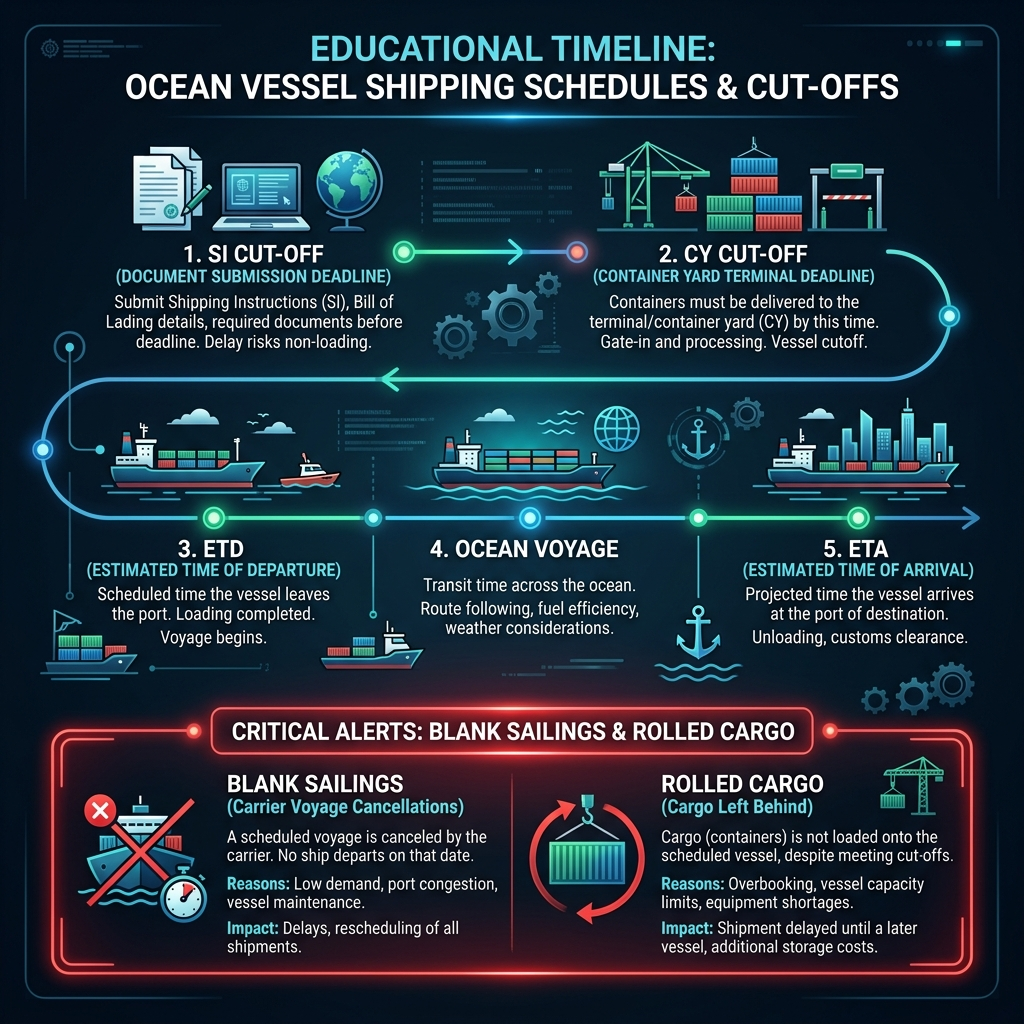
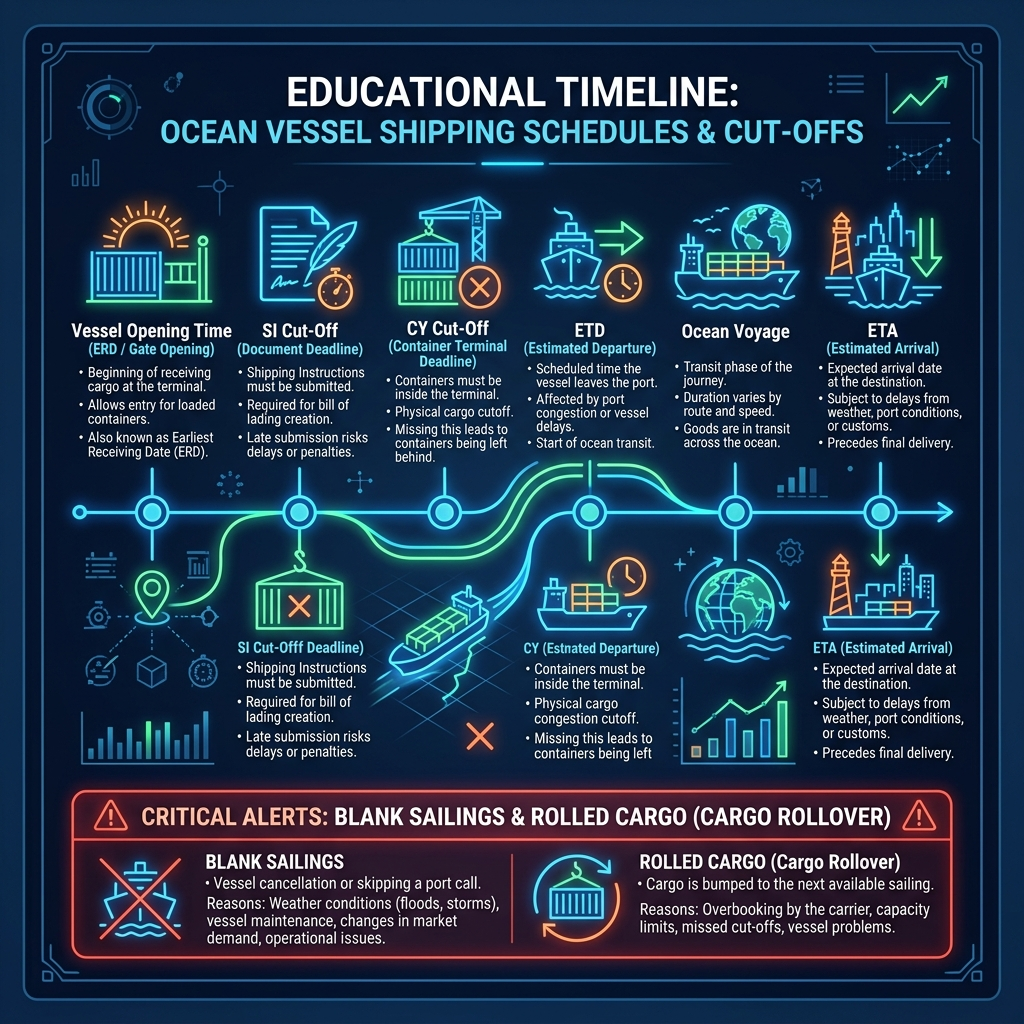
8 11 3

diff --git a/knowledge_base.js b/knowledge_base.js
@@ -184,23 +184,44 @@ var NEXUS_KNOWLEDGE_BASE = window.NEXUS_KNOWLEDGE_BASE = {
         {
           id: "types-of-shipping-containers",
           title: "Types of Shipping Containers",
-          summary: "An overview of container equipment types used in sea shipping.",
+          summary: "Detailed ISO container equipment types, dimensions, and cargo applications.",
           image: "images/types_of_shipping_containers_infographic.png",
           content: `
-            <p>Choosing the correct shipping container is vital to protect cargo integrity and minimize deadweight transport costs. Standard container designs are classified under international ISO standards:</p>
+            <p>Choosing the correct shipping container is vital to protect cargo integrity, ensure physical safety at sea, and minimize deadweight transport costs. Standard container designs are classified under international ISO 6346 standards:</p>
 
             <img src="images/types_of_shipping_containers_infographic.png" alt="Types of Shipping Containers Infographic" style="width:100%; max-width:850px; border-radius:12px; margin:25px auto; display:block; box-shadow:0 10px 25px rgba(0,0,0,0.15);">
 
-            <h3>1. Dry Van / General Purpose (DV/GP)</h3>
-            <p>Standard fully enclosed containers with rigid walls, roof, and end doors. Used for dry general cargo like textiles, packaged consumer products, paper, and dry bulk items.</p>
-            <h3>2. Reefer Container (RF)</h3>
-            <p>Thermally insulated containers equipped with an integrated refrigeration compressor unit powered by the vessel's electrical grid. Designed to transport perishables, food items, chemicals, and pharmaceutical drugs at temperature ranges from -30°C to +30°C.</p>
-            <h3>3. Open Top Container (OT)</h3>
-            <p>Features a removable tarpaulin roof rather than a solid metal ceiling. Ideal for loading oversized cargo (like heavy steel beams, machinery, logs) from above using overhead cranes.</p>
-            <h3>4. Flat Rack Container (FR)</h3>
-            <p>Features collapsible flat bulkheads at both ends and lacks side walls. Designed to transport Out-of-Gauge (OOG) machinery, yachts, boilers, and heavy vehicles that exceed standard container width and height limits.</p>
-            <h3>5. ISO Tank Container</h3>
-            <p>A cylindrical steel tank mounted within a standard 20ft container frame. Designed for bulk transport of food-grade liquids, spirits, gases, and dangerous chemicals.</p>
+            <div style="margin:30px 0; display:grid; grid-template-columns: repeat(auto-fit, minmax(240px, 1fr)); gap:20px; font-family:'Outfit', sans-serif;">
+              <div style="background:#FFF; border:2px solid #E2E8F0; padding:20px; border-radius:12px; border-top:4px solid #1D4ED8; box-shadow: 0 4px 6px rgba(0,0,0,0.05);">
+                <strong style="color:#1D4ED8; font-size:1.15rem; display:block; margin-bottom:8px;">1. Dry Van / General Purpose (DV/GP)</strong>
+                <p style="font-size:0.9rem; color:#475569; line-height:1.6; margin:0;">Standard fully enclosed rigid steel containers (20ft & 40ft). Designed for general dry cargo like garments, electronics, packaged goods, and dry bulk boxes.</p>
+              </div>
+
+              <div style="background:#FFF; border:2px solid #E2E8F0; padding:20px; border-radius:12px; border-top:4px solid #059669; box-shadow: 0 4px 6px rgba(0,0,0,0.05);">
+                <strong style="color:#059669; font-size:1.15rem; display:block; margin-bottom:8px;">2. Reefer Container (RF)</strong>
+                <p style="font-size:0.9rem; color:#475569; line-height:1.6; margin:0;">Insulated units equipped with a refrigeration compressor powered by the vessel grid. Maintains precise temperatures (-30°C to +30°C) for fruits, meats, seafood, and pharmaceuticals.</p>
+              </div>
+
+              <div style="background:#FFF; border:2px solid #E2E8F0; padding:20px; border-radius:12px; border-top:4px solid #EA580C; box-shadow: 0 4px 6px rgba(0,0,0,0.05);">
+                <strong style="color:#EA580C; font-size:1.15rem; display:block; margin-bottom:8px;">3. Open Top Container (OT)</strong>
+                <p style="font-size:0.9rem; color:#475569; line-height:1.6; margin:0;">Equipped with a heavy-duty removable tarpaulin roof instead of a solid steel ceiling. Used for loading tall or heavy machinery, timber, and steel coils from above via overhead cranes.</p>
+              </div>
+
+              <div style="background:#FFF; border:2px solid #E2E8F0; padding:20px; border-radius:12px; border-top:4px solid #DC2626; box-shadow: 0 4px 6px rgba(0,0,0,0.05);">
+                <strong style="color:#DC2626; font-size:1.15rem; display:block; margin-bottom:8px;">4. Flat Rack Container (FR)</strong>
+                <p style="font-size:0.9rem; color:#475569; line-height:1.6; margin:0;">Features collapsible end bulkheads without side walls. Tailored for Out-of-Gauge (OOG) heavy cargo like industrial boilers, yachts, buses, and oversized machinery.</p>
+              </div>
+
+              <div style="background:#FFF; border:2px solid #E2E8F0; padding:20px; border-radius:12px; border-top:4px solid #0284C7; box-shadow: 0 4px 6px rgba(0,0,0,0.05);">
+                <strong style="color:#0284C7; font-size:1.15rem; display:block; margin-bottom:8px;">5. ISO Tank Container</strong>
+                <p style="font-size:0.9rem; color:#475569; line-height:1.6; margin:0;">Cylindrical stainless steel pressure tank enclosed inside a 20ft ISO frame. Used for bulk liquids, food-grade oils, spirits, chemicals, and hazardous gases.</p>
+              </div>
+
+              <div style="background:#FFF; border:2px solid #E2E8F0; padding:20px; border-radius:12px; border-top:4px solid #7C3AED; box-shadow: 0 4px 6px rgba(0,0,0,0.05);">
+                <strong style="color:#7C3AED; font-size:1.15rem; display:block; margin-bottom:8px;">6. High Cube Container (HC)</strong>
+                <p style="font-size:0.9rem; color:#475569; line-height:1.6; margin:0;">Offers an extra 1 foot of internal vertical height (9.5 ft total vs 8.5 ft standard). Increases usable volumetric capacity to ~76.4 CBM, ideal for light, high-volume cargo.</p>
+              </div>
+            </div>
           `,
           youtube: "https://www.youtube.com/embed/w0D4F8en_xE",
           linkToWidget: "containers"
@@ -378,20 +399,64 @@ var NEXUS_KNOWLEDGE_BASE = window.NEXUS_KNOWLEDGE_BASE = {
         {
           id: "vessel-schedules-transit-times",
           title: "Vessel Schedules and Transit Times",
-          summary: "Understanding cut-offs, transit duration, and blank sailings.",
+          summary: "Understanding vessel opening time, cut-offs, blank sailings, and cargo rollover.",
           image: "images/vessel_schedules_transit_times_infographic.png",
           content: `
-            <p>Shipping lines coordinate port operations on strict schedules, though schedules are subject to maritime delays:</p>
+            <p>Shipping lines coordinate port operations on strict schedules, though schedules are subject to operational and maritime delays:</p>
 
             <img src="images/vessel_schedules_transit_times_infographic.png" alt="Vessel Schedules and Transit Times Infographic" style="width:100%; max-width:850px; border-radius:12px; margin:25px auto; display:block; box-shadow:0 10px 25px rgba(0,0,0,0.15);">
 
-            <h3>1. Scheduled Deadlines (Cut-offs)</h3>
-            <ul>
-              <li><strong>CY Cut-Off:</strong> The final deadline by which the loaded and sealed container must arrive at the port terminal yard. Late containers are rolled over.</li>
-              <li><strong>SI Cut-Off:</strong> Shipping Instructions Cut-off. The final date by which the shipper must submit cargo descriptions and consignee details to the carrier for Bill of Lading generation.</li>
-            </ul>
-            <h3>2. Blank Sailing</h3>
-            <p>A blank sailing occurs when a carrier cancels a scheduled vessel port call or an entire voyage route. This is used to manage shipping capacity, respond to port labor strikes, adjust for severe delays, or control freight rates during low demand periods.</p>
+            <div style="margin:30px 0; background: linear-gradient(135deg, #F8FAFC 0%, #F1F5F9 100%); border:2px solid #CBD5E1; padding:25px; border-radius:16px; font-family:'Outfit', sans-serif;">
+              <h4 style="margin:0 0 15px 0; color:#0F172A; text-align:center; font-size: 1.3rem;">⏱ THE 6 STAGES OF OCEAN VESSEL TIMELINES</h4>
+              
+              <div style="display:flex; flex-direction:column; gap:12px;">
+                <div style="background:#FFF; padding:15px; border-radius:10px; border-left:4px solid #3B82F6; box-shadow:0 2px 4px rgba(0,0,0,0.05);">
+                  <strong style="color:#1D4ED8; font-size:1.05rem; display:block;">1. Vessel Opening Time (ERD / Gate Opening)</strong>
+                  <span style="font-size:0.9rem; color:#475569;">The official date/time when the port container yard opens to receive export containers for a specific vessel voyage (typically 4-5 days prior to ETD). Gating-in before opening is rejected or incurs extra storage.</span>
+                </div>
+
+                <div style="background:#FFF; padding:15px; border-radius:10px; border-left:4px solid #3B82F6; box-shadow:0 2px 4px rgba(0,0,0,0.05);">
+                  <strong style="color:#1D4ED8; font-size:1.05rem; display:block;">2. SI Cut-Off (Shipping Instructions)</strong>
+                  <span style="font-size:0.9rem; color:#475569;">The final date by which the shipper must transmit full Shipping Instructions, CUSDEC export clearance, and Bill of Lading data to the ocean carrier.</span>
+                </div>
+
+                <div style="background:#FFF; padding:15px; border-radius:10px; border-left:4px solid #3B82F6; box-shadow:0 2px 4px rgba(0,0,0,0.05);">
+                  <strong style="color:#1D4ED8; font-size:1.05rem; display:block;">3. CY Cut-Off (Container Yard Terminal Gate-In)</strong>
+                  <span style="font-size:0.9rem; color:#475569;">The absolute deadline by which the stuffed and ISO-sealed container must gate-in at the port terminal. Late containers are rolled over to the next vessel.</span>
+                </div>
+
+                <div style="background:#FFF; padding:15px; border-radius:10px; border-left:4px solid #10B981; box-shadow:0 2px 4px rgba(0,0,0,0.05);">
+                  <strong style="color:#047857; font-size:1.05rem; display:block;">4. ETD (Estimated Time of Departure)</strong>
+                  <span style="font-size:0.9rem; color:#475569;">The scheduled date and time the vessel unmoors and departs the port of loading after loading operations complete.</span>
+                </div>
+
+                <div style="background:#FFF; padding:15px; border-radius:10px; border-left:4px solid #10B981; box-shadow:0 2px 4px rgba(0,0,0,0.05);">
+                  <strong style="color:#047857; font-size:1.05rem; display:block;">5. Ocean Voyage Transit</strong>
+                  <span style="font-size:0.9rem; color:#475569;">Sea transit duration across the ocean trade lane, influenced by vessel speed, fuel efficiency, weather conditions, and canal transits.</span>
+                </div>
+
+                <div style="background:#FFF; padding:15px; border-radius:10px; border-left:4px solid #10B981; box-shadow:0 2px 4px rgba(0,0,0,0.05);">
+                  <strong style="color:#047857; font-size:1.05rem; display:block;">6. ETA (Estimated Time of Arrival)</strong>
+                  <span style="font-size:0.9rem; color:#475569;">The projected date and time the vessel arrives, berths, and commences container discharge at the destination port.</span>
+                </div>
+              </div>
+            </div>
+
+            <div style="margin:30px 0; background:#FFF1F2; border:2px solid #FDA4AF; padding:25px; border-radius:16px; font-family:'Outfit', sans-serif;">
+              <h4 style="margin:0 0 15px 0; color:#9F1239; font-size:1.2rem;">⚠ CRITICAL DISRUPTIONS: BLANK SAILINGS & ROLLED CARGO</h4>
+              
+              <div style="display:grid; grid-template-columns: repeat(auto-fit, minmax(240px, 1fr)); gap:15px;">
+                <div style="background:#FFF; padding:18px; border-radius:12px; border-left:4px solid #E11D48; box-shadow:0 2px 4px rgba(0,0,0,0.05);">
+                  <strong style="color:#BE123C; font-size:1.1rem; display:block; margin-bottom:8px;">Blank Sailings (Voyage Cancellation)</strong>
+                  <p style="font-size:0.9rem; color:#881337; line-height:1.6; margin:0;">Occurs when a carrier cancels a scheduled port call or voyage. Primary drivers include low trade demand, port congestion, vessel maintenance, and severe <strong>weather conditions (flooding, typhoons, heavy winter storms)</strong>.</p>
+                </div>
+
+                <div style="background:#FFF; padding:18px; border-radius:12px; border-left:4px solid #E11D48; box-shadow:0 2px 4px rgba(0,0,0,0.05);">
+                  <strong style="color:#BE123C; font-size:1.1rem; display:block; margin-bottom:8px;">Rolled Cargo (Cargo Rollover)</strong>
+                  <p style="font-size:0.9rem; color:#881337; line-height:1.6; margin:0;">Occurs when a container is left behind at origin despite meeting all cut-off deadlines. Driven primarily by carrier overbooking, ship weight/capacity limits, and vessel size constraints.</p>
+                </div>
+              </div>
+            </div>
           `,
           youtube: "https://www.youtube.com/embed/7Bopf2Rf-ac"
         },
@@ -417,21 +482,58 @@ var NEXUS_KNOWLEDGE_BASE = window.NEXUS_KNOWLEDGE_BASE = {
         {
           id: "common-ocean-freight-challenges",
           title: "Common Ocean Freight Challenges",
-          summary: "Congestion, blank sailings, weather delays, and capacity shortages.",
+          summary: "Congestion, blank sailings, vessel delays, weather disruptions, and capacity shortages.",
           image: "images/common_ocean_freight_challenges_infographic.png",
           content: `
-            <p>Ocean freight operations require proactive risk management to counter standard logistics challenges:</p>
+            <p>Ocean freight operations require proactive risk management and strategic planning to counter standard supply chain challenges:</p>
 
             <img src="images/common_ocean_freight_challenges_infographic.png" alt="Common Ocean Freight Challenges Infographic" style="width:100%; max-width:850px; border-radius:12px; margin:25px auto; display:block; box-shadow:0 10px 25px rgba(0,0,0,0.15);">
 
-            <h3>1. Port Congestion</h3>
-            <p>High vessel arrivals combined with labor shortages cause vessels to queue outside ports for days. This delays imports and causes truckers to face delays at terminal gates.</p>
-            <h3>2. Container & Equipment Shortage</h3>
-            <p>Imbalances in trade lanes cause empty containers to gather in import hubs (like Europe/USA) while manufacturing origins (like China) face container deficits.</p>
-            <h3>3. Cargo Rollover</h3>
-            <p>Shipping lines often overbook vessel slots. If a vessel reaches capacity, containers are rolled over to the next scheduled sailing, causing delays.</p>
-            <h3>4. Blank Sailings</h3>
-            <p>Frequent cancellation of schedules by shipping lines disrupts supply chain timelines and requires cargo to be re-booked with alternative carriers.</p>
+            <div style="margin:30px 0; background:#F8FAFC; border:1px solid #E2E8F0; padding:25px; border-radius:16px; font-family:'Outfit', sans-serif;">
+              <h4 style="margin:0 0 20px 0; color:#0F172A; font-size:1.25rem; text-align:center; font-weight:700; border-bottom:2px solid #E2E8F0; padding-bottom:12px;">🛡 THE 5 OCEAN FREIGHT RISKS & MITIGATION STRATEGIES</h4>
+              
+              <div style="display:flex; flex-direction:column; gap:16px;">
+                <div style="background:#FFF; border:1px solid #E2E8F0; padding:20px; border-radius:12px; border-left:5px solid #EF4444; box-shadow:0 2px 5px rgba(0,0,0,0.04);">
+                  <strong style="color:#B91C1C; font-size:1.1rem; display:block; margin-bottom:6px;">1. Port Congestion & Gate Delays</strong>
+                  <p style="font-size:0.92rem; color:#334155; line-height:1.6; margin:0 0 12px 0;">Heavy vessel arrivals combined with terminal labor shortages cause ships to queue outside ports for days, creating long truck queues at gates.</p>
+                  <div style="background:#FEF2F2; border-left:3px solid #EF4444; color:#991B1B; font-weight:600; font-size:0.88rem; padding:10px 14px; border-radius:6px;">
+                    💡 <strong>Mitigation:</strong> Pre-clear export customs, leverage live port status alerts, and utilize off-peak gate appointments.
+                  </div>
+                </div>
+
+                <div style="background:#FFF; border:1px solid #E2E8F0; padding:20px; border-radius:12px; border-left:5px solid #F59E0B; box-shadow:0 2px 5px rgba(0,0,0,0.04);">
+                  <strong style="color:#B45309; font-size:1.1rem; display:block; margin-bottom:6px;">2. Container & Equipment Shortage</strong>
+                  <p style="font-size:0.92rem; color:#334155; line-height:1.6; margin:0 0 12px 0;">Trade imbalances leave empty containers trapped at import hubs (US/EU) while manufacturing origin ports (Asia) face severe container deficits.</p>
+                  <div style="background:#FFFBEB; border-left:3px solid #F59E0B; color:#92400E; font-weight:600; font-size:0.88rem; padding:10px 14px; border-radius:6px;">
+                    💡 <strong>Mitigation:</strong> Forecast container demand 4-6 weeks early, diversify equipment suppliers, or use NOR (Non-Operating Reefer) substitutes.
+                  </div>
+                </div>
+
+                <div style="background:#FFF; border:1px solid #E2E8F0; padding:20px; border-radius:12px; border-left:5px solid #FF5A1F; box-shadow:0 2px 5px rgba(0,0,0,0.04);">
+                  <strong style="color:#C2410C; font-size:1.1rem; display:block; margin-bottom:6px;">3. Overbooking & Cargo Rollover</strong>
+                  <p style="font-size:0.92rem; color:#334155; line-height:1.6; margin:0 0 12px 0;">Carriers overbook ship capacity. Containers meeting cut-offs get rolled over to the next sailing if space runs out.</p>
+                  <div style="background:#FFF7ED; border-left:3px solid #FF5A1F; color:#9A3412; font-weight:600; font-size:0.88rem; padding:10px 14px; border-radius:6px;">
+                    💡 <strong>Mitigation:</strong> Negotiate "No-Roll" clauses, pre-book with multiple carrier alliances, and avoid loading right at CY cut-off.
+                  </div>
+                </div>
+
+                <div style="background:#FFF; border:1px solid #E2E8F0; padding:20px; border-radius:12px; border-left:5px solid #8B5CF6; box-shadow:0 2px 5px rgba(0,0,0,0.04);">
+                  <strong style="color:#6D28D9; font-size:1.1rem; display:block; margin-bottom:6px;">4. Carrier Blank Sailings</strong>
+                  <p style="font-size:0.92rem; color:#334155; line-height:1.6; margin:0 0 12px 0;">Carriers cancel scheduled voyages to balance ocean capacity, disrupting factory shipping schedules.</p>
+                  <div style="background:#F5F3FF; border-left:3px solid #8B5CF6; color:#5B21B6; font-weight:600; font-size:0.88rem; padding:10px 14px; border-radius:6px;">
+                    💡 <strong>Mitigation:</strong> Maintain safety stock buffers, track carrier blank sailing advisories, and plan flexible secondary routing.
+                  </div>
+                </div>
+
+                <div style="background:#FFF; border:1px solid #E2E8F0; padding:20px; border-radius:12px; border-left:5px solid #3B82F6; box-shadow:0 2px 5px rgba(0,0,0,0.04);">
+                  <strong style="color:#1D4ED8; font-size:1.1rem; display:block; margin-bottom:6px;">5. Vessel Delays & Schedule Unreliability</strong>
+                  <p style="font-size:0.92rem; color:#334155; line-height:1.6; margin:0 0 12px 0;">Severe weather (flooding, typhoons, winter blizzards) and canal bottlenecks (Suez/Panama Canal limits) cause vessels to miss ETAs.</p>
+                  <div style="background:#EFF6FF; border-left:3px solid #3B82F6; color:#1E40AF; font-weight:600; font-size:0.88rem; padding:10px 14px; border-radius:6px;">
+                    💡 <strong>Mitigation:</strong> Monitor satellite AIS vessel tracking, diversify port entry points, and buffer delivery lead times.
+                  </div>
+                </div>
+              </div>
+            </div>
           `,
           youtube: "https://www.youtube.com/embed/eYgTFXeKn1Q"
         }
